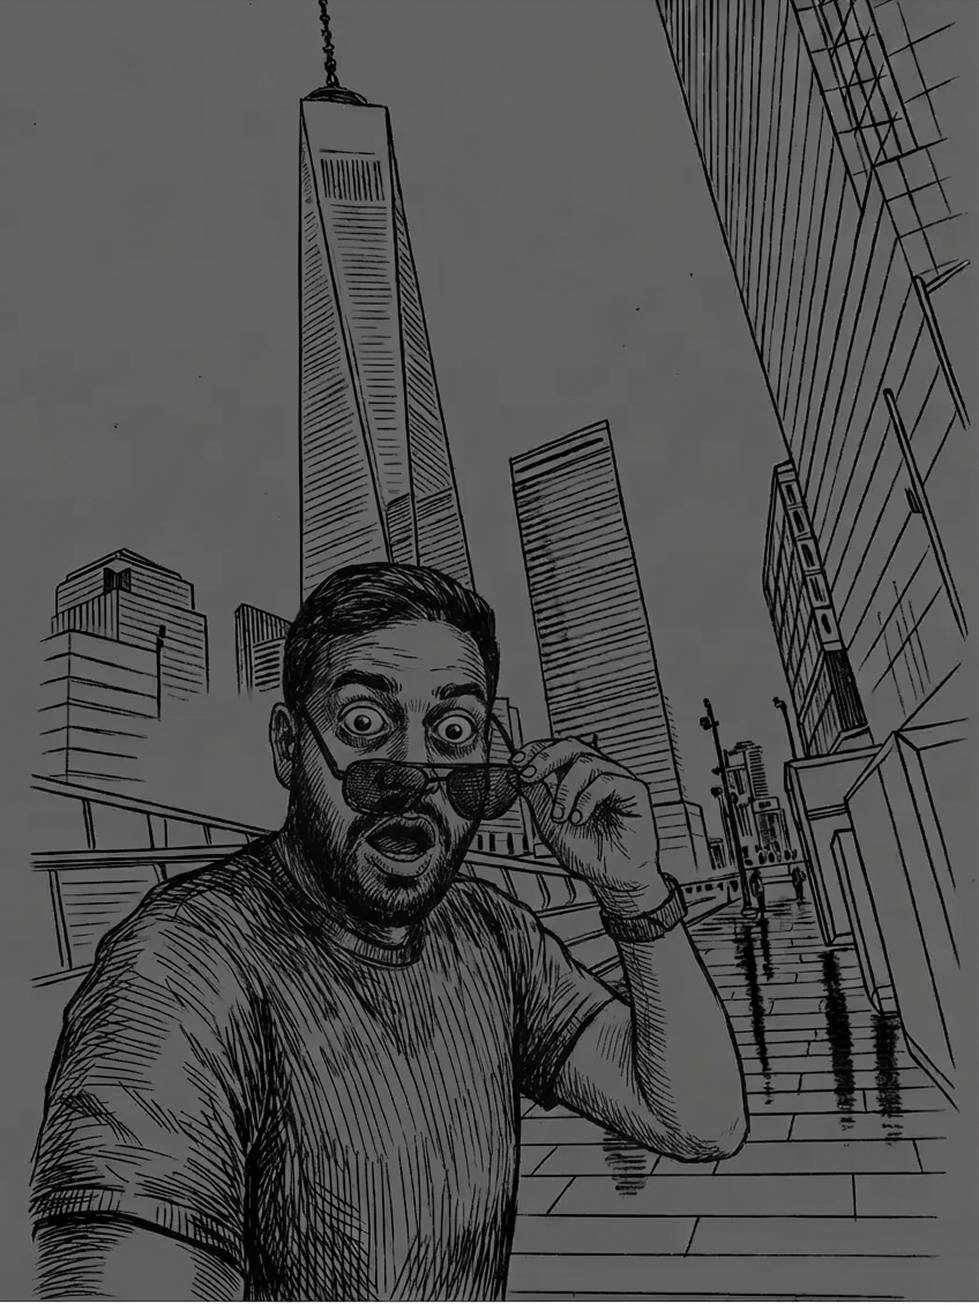
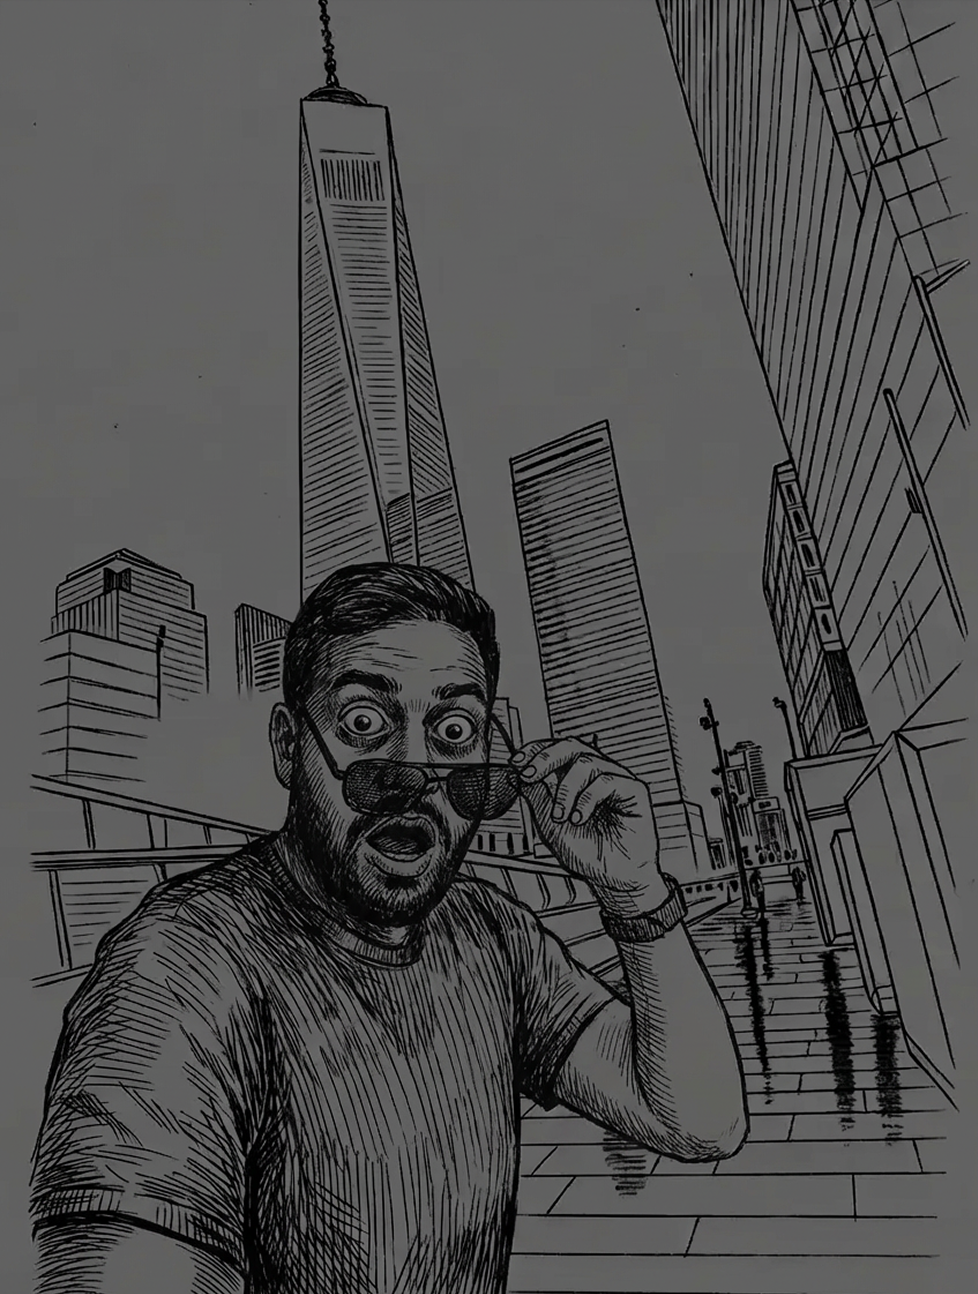
Fix portrait image display and optimize images
- Add display: block to portrait to remove inline spacing gap
- Update me.png and me-shocked.png (cropped bottom edge, reduced file size)
- Clean up portrait styling after image edit

Changed region(s): [[0.0, 0.0, 1.0, 1.0], [0.3067, 0.0618, 0.3681, 0.0927], [0.9816, 0.4637, 1.0, 0.4946]]

diff --git a/public/style.css b/public/style.css
@@ -1,1 +1,1 @@
-:root{--bg-primary: #0d1117;--bg-secondary: #161b22;--bg-tertiary: #21262d;--text-primary: #e6edf3;--text-secondary: #8b949e;--accent-green: #7ee787;--accent-cyan: #79c0ff;--accent-yellow: #ffa657;--border-color: #30363d}*{margin:0;padding:0;box-sizing:border-box}html{font-size:16px;scroll-behavior:smooth}body{font-family:"JetBrains Mono","Fira Code","Cascadia Code","Consolas","Monaco",monospace;background-color:var(--bg-primary);color:var(--text-primary);line-height:1.6;font-size:.95rem}a{color:var(--accent-green);text-decoration:none;transition:color .2s ease}a:hover{color:var(--accent-cyan);text-decoration:underline}.container{max-width:900px;margin:0 auto;padding:2rem 1.5rem}@keyframes fadeIn{from{opacity:0;transform:translateY(20px)}to{opacity:1;transform:translateY(0)}}header{background-color:#1a1a1a;border-bottom:2px solid var(--border-color);padding:0;margin-bottom:2rem;animation:fadeIn 1s ease-out}header .nav-container{max-width:1200px;margin:0 auto;padding:2rem;display:flex;flex-direction:row;align-items:center;justify-content:space-between;gap:3rem}header .site-brand{display:flex;flex-direction:column;align-items:flex-start;gap:1.5rem;flex-shrink:0}header .portrait{width:200px;height:300px;object-fit:cover;border-radius:12px;box-shadow:0 4px 8px rgba(0,0,0,.3);transition:transform .3s ease,box-shadow .3s ease}header .portrait:hover{transform:scale(1.05);box-shadow:0 6px 12px rgba(88,166,255,.3)}header .title-container{display:flex;align-items:center;gap:1rem;flex-wrap:wrap}header .terminal-text{color:var(--accent-green);font-size:1.5rem;font-weight:600;margin-right:.5rem}header .typewriter-text{color:var(--accent-cyan);font-size:1.5rem;font-weight:600;min-width:150px;display:inline-block}header .cursor{color:var(--text-primary);font-size:1.5rem;animation:blink 1s infinite}@keyframes blink{0%, 50%{opacity:1}51%, 100%{opacity:0}}header .shell-input{background:rgba(0,0,0,0);border:none;outline:none;color:var(--accent-cyan);font-family:"JetBrains Mono","Fira Code","Cascadia Code","Consolas","Monaco",monospace;font-size:1.5rem;font-weight:600;padding:0;min-width:300px;caret-color:var(--text-primary)}header .shell-input::selection{background-color:var(--accent-cyan);color:var(--bg-primary)}header nav{display:flex;flex-direction:column;gap:1rem;align-items:flex-end}header nav a{color:var(--text-primary);font-size:1.1rem;font-weight:600;letter-spacing:.5px}header nav a:hover{color:var(--accent-cyan)}header nav a::before{content:">";margin-right:.5rem;color:var(--accent-green)}.shell-output{margin-top:1rem;padding:0 2rem;color:var(--text-primary);font-size:.9rem;max-height:300px;overflow-y:auto}.shell-output .output-line{margin-bottom:.25rem}.shell-output .error{color:#ff6b6b}.shell-output .success{color:var(--accent-green)}.autocomplete{position:absolute;margin-top:.5rem;background-color:var(--bg-secondary);border:1px solid var(--border-color);border-radius:4px;max-height:150px;overflow-y:auto;display:none;z-index:100}.autocomplete.show{display:block}.autocomplete .autocomplete-item{padding:.5rem .75rem;cursor:pointer;color:var(--text-secondary);font-size:.9rem;white-space:nowrap}.autocomplete .autocomplete-item:hover,.autocomplete .autocomplete-item.selected{background-color:var(--bg-tertiary);color:var(--accent-cyan)}.autocomplete .autocomplete-item .command{color:var(--accent-green);font-weight:600}.autocomplete .autocomplete-item .description{color:var(--text-secondary);font-size:.85rem;margin-left:1rem}main{min-height:60vh}.post-list{list-style:none}.post-list .post-item{margin-bottom:2rem;padding:1.5rem;background-color:var(--bg-secondary);border:1px solid var(--border-color);border-left:3px solid var(--accent-green)}.post-list .post-item:hover{border-left-color:var(--accent-cyan);background-color:var(--bg-tertiary)}.post-list .post-item .post-meta{color:var(--text-secondary);font-size:.85rem;margin-bottom:.5rem}.post-list .post-item .post-meta::before{content:"[";color:var(--accent-green)}.post-list .post-item .post-meta::after{content:"]";color:var(--accent-green)}.post-list .post-item .post-title{font-size:1.3rem;margin-bottom:.5rem}.post-list .post-item .post-title a{color:var(--text-primary);font-weight:600}.post-list .post-item .post-title a::before{content:"> ";color:var(--accent-cyan)}.post-list .post-item .post-summary{color:var(--text-secondary);line-height:1.5}article .post-header{margin-bottom:2rem;padding-bottom:1rem;border-bottom:1px solid var(--border-color)}article .post-header h1{font-size:2rem;color:var(--accent-cyan);margin-bottom:.5rem}article .post-header h1::before{content:"# ";color:var(--accent-green)}article .post-header .post-meta{color:var(--text-secondary);font-size:.9rem}article .post-content h2{color:var(--accent-cyan);margin-top:2rem;margin-bottom:1rem;font-size:1.5rem}article .post-content h2::before{content:"## ";color:var(--accent-green)}article .post-content h3{color:var(--accent-green);margin-top:1.5rem;margin-bottom:.75rem;font-size:1.2rem}article .post-content h3::before{content:"### ";color:var(--text-secondary)}article .post-content p{margin-bottom:1rem;line-height:1.7}article .post-content code{background-color:var(--bg-tertiary);padding:.2rem .4rem;border-radius:3px;font-size:.9em;color:var(--accent-yellow)}article .post-content pre{background-color:var(--bg-secondary);border:1px solid var(--border-color);border-left:3px solid var(--accent-green);padding:1rem;overflow-x:auto;margin:1.5rem 0}article .post-content pre code{background:none;padding:0;color:var(--text-primary)}article .post-content blockquote{border-left:3px solid var(--accent-cyan);padding-left:1rem;margin:1.5rem 0;color:var(--text-secondary);font-style:italic}article .post-content ul,article .post-content ol{margin-left:2rem;margin-bottom:1rem}article .post-content ul li,article .post-content ol li{margin-bottom:.5rem}article .post-content ul li::marker,article .post-content ol li::marker{color:var(--accent-green)}.tags{display:flex;flex-wrap:wrap;gap:.5rem;margin-top:1rem}.tags .tag{background-color:var(--bg-tertiary);border:1px solid var(--border-color);padding:.3rem .7rem;border-radius:3px;font-size:.85rem;color:var(--text-secondary)}.tags .tag::before{content:"#";color:var(--accent-green);margin-right:.2rem}.tags .tag:hover{background-color:var(--bg-secondary);border-color:var(--accent-green);color:var(--accent-cyan)}footer{margin-top:4rem;padding:2rem 0;border-top:2px solid var(--border-color);background-color:var(--bg-secondary);text-align:center;color:var(--text-secondary);font-size:.9rem}footer::before{content:"---";display:block;color:var(--accent-green);margin-bottom:1rem}.pagination{display:flex;justify-content:center;gap:1rem;margin-top:3rem}.pagination a,.pagination span{padding:.5rem 1rem;background-color:var(--bg-secondary);border:1px solid var(--border-color)}.pagination a::before,.pagination span::before{content:"[";color:var(--accent-green)}.pagination a::after,.pagination span::after{content:"]";color:var(--accent-green)}.pagination a:hover,.pagination span:hover{background-color:var(--bg-tertiary);border-color:var(--accent-cyan)}.pagination .active{border-color:var(--accent-cyan);color:var(--accent-cyan)}.search-container{margin-bottom:2rem}.search-container input{width:100%;padding:.75rem;background-color:var(--bg-secondary);border:1px solid var(--border-color);border-left:3px solid var(--accent-green);color:var(--text-primary);font-family:"JetBrains Mono","Fira Code","Cascadia Code","Consolas","Monaco",monospace;font-size:.95rem}.search-container input::placeholder{color:var(--text-secondary)}.search-container input:focus{outline:none;border-left-color:var(--accent-cyan);background-color:var(--bg-tertiary)}@media (max-width: 1024px){header .nav-container{flex-direction:column;align-items:center;padding:2rem 1rem}header .site-brand{align-items:center}header .title-container{justify-content:center}header .portrait{height:400px}header nav{align-items:center;gap:.75rem}.container{padding:1rem}article .post-header h1{font-size:1.5rem}}@media (max-width: 600px){header .title-container{font-size:.9rem}header .handwriting-svg svg{height:40px}header .typewriter-prompt{font-size:1.5rem}}
+:root{--bg-primary: #0d1117;--bg-secondary: #161b22;--bg-tertiary: #21262d;--text-primary: #e6edf3;--text-secondary: #8b949e;--accent-green: #7ee787;--accent-cyan: #79c0ff;--accent-yellow: #ffa657;--border-color: #30363d}*{margin:0;padding:0;box-sizing:border-box}html{font-size:16px;scroll-behavior:smooth}body{font-family:"JetBrains Mono","Fira Code","Cascadia Code","Consolas","Monaco",monospace;background-color:var(--bg-primary);color:var(--text-primary);line-height:1.6;font-size:.95rem}a{color:var(--accent-green);text-decoration:none;transition:color .2s ease}a:hover{color:var(--accent-cyan);text-decoration:underline}.container{max-width:900px;margin:0 auto;padding:2rem 1.5rem}@keyframes fadeIn{from{opacity:0;transform:translateY(20px)}to{opacity:1;transform:translateY(0)}}header{background-color:#1a1a1a;border-bottom:2px solid var(--border-color);padding:0;margin-bottom:2rem;animation:fadeIn 1s ease-out}header .nav-container{max-width:1200px;margin:0 auto;padding:2rem;display:flex;flex-direction:row;align-items:center;justify-content:space-between;gap:3rem}header .site-brand{display:flex;flex-direction:column;align-items:flex-start;gap:1.5rem;flex-shrink:0}header .portrait{display:block;width:200px;height:300px;object-fit:cover;border-radius:12px;box-shadow:0 4px 8px rgba(0,0,0,.3);transition:transform .3s ease,box-shadow .3s ease}header .portrait:hover{transform:scale(1.05);box-shadow:0 6px 12px rgba(88,166,255,.3)}header .title-container{display:flex;align-items:center;gap:1rem;flex-wrap:wrap}header .terminal-text{color:var(--accent-green);font-size:1.5rem;font-weight:600;margin-right:.5rem}header .typewriter-text{color:var(--accent-cyan);font-size:1.5rem;font-weight:600;min-width:150px;display:inline-block}header .cursor{color:var(--text-primary);font-size:1.5rem;animation:blink 1s infinite}@keyframes blink{0%, 50%{opacity:1}51%, 100%{opacity:0}}header .shell-input{background:rgba(0,0,0,0);border:none;outline:none;color:var(--accent-cyan);font-family:"JetBrains Mono","Fira Code","Cascadia Code","Consolas","Monaco",monospace;font-size:1.5rem;font-weight:600;padding:0;min-width:300px;caret-color:var(--text-primary)}header .shell-input::selection{background-color:var(--accent-cyan);color:var(--bg-primary)}header nav{display:flex;flex-direction:column;gap:1rem;align-items:flex-end}header nav a{color:var(--text-primary);font-size:1.1rem;font-weight:600;letter-spacing:.5px}header nav a:hover{color:var(--accent-cyan)}header nav a::before{content:">";margin-right:.5rem;color:var(--accent-green)}.shell-output{margin-top:1rem;padding:0 2rem;color:var(--text-primary);font-size:.9rem;max-height:300px;overflow-y:auto}.shell-output .output-line{margin-bottom:.25rem}.shell-output .error{color:#ff6b6b}.shell-output .success{color:var(--accent-green)}.autocomplete{position:absolute;margin-top:.5rem;background-color:var(--bg-secondary);border:1px solid var(--border-color);border-radius:4px;max-height:150px;overflow-y:auto;display:none;z-index:100}.autocomplete.show{display:block}.autocomplete .autocomplete-item{padding:.5rem .75rem;cursor:pointer;color:var(--text-secondary);font-size:.9rem;white-space:nowrap}.autocomplete .autocomplete-item:hover,.autocomplete .autocomplete-item.selected{background-color:var(--bg-tertiary);color:var(--accent-cyan)}.autocomplete .autocomplete-item .command{color:var(--accent-green);font-weight:600}.autocomplete .autocomplete-item .description{color:var(--text-secondary);font-size:.85rem;margin-left:1rem}main{min-height:60vh}.post-list{list-style:none}.post-list .post-item{margin-bottom:2rem;padding:1.5rem;background-color:var(--bg-secondary);border:1px solid var(--border-color);border-left:3px solid var(--accent-green)}.post-list .post-item:hover{border-left-color:var(--accent-cyan);background-color:var(--bg-tertiary)}.post-list .post-item .post-meta{color:var(--text-secondary);font-size:.85rem;margin-bottom:.5rem}.post-list .post-item .post-meta::before{content:"[";color:var(--accent-green)}.post-list .post-item .post-meta::after{content:"]";color:var(--accent-green)}.post-list .post-item .post-title{font-size:1.3rem;margin-bottom:.5rem}.post-list .post-item .post-title a{color:var(--text-primary);font-weight:600}.post-list .post-item .post-title a::before{content:"> ";color:var(--accent-cyan)}.post-list .post-item .post-summary{color:var(--text-secondary);line-height:1.5}article .post-header{margin-bottom:2rem;padding-bottom:1rem;border-bottom:1px solid var(--border-color)}article .post-header h1{font-size:2rem;color:var(--accent-cyan);margin-bottom:.5rem}article .post-header h1::before{content:"# ";color:var(--accent-green)}article .post-header .post-meta{color:var(--text-secondary);font-size:.9rem}article .post-content h2{color:var(--accent-cyan);margin-top:2rem;margin-bottom:1rem;font-size:1.5rem}article .post-content h2::before{content:"## ";color:var(--accent-green)}article .post-content h3{color:var(--accent-green);margin-top:1.5rem;margin-bottom:.75rem;font-size:1.2rem}article .post-content h3::before{content:"### ";color:var(--text-secondary)}article .post-content p{margin-bottom:1rem;line-height:1.7}article .post-content code{background-color:var(--bg-tertiary);padding:.2rem .4rem;border-radius:3px;font-size:.9em;color:var(--accent-yellow)}article .post-content pre{background-color:var(--bg-secondary);border:1px solid var(--border-color);border-left:3px solid var(--accent-green);padding:1rem;overflow-x:auto;margin:1.5rem 0}article .post-content pre code{background:none;padding:0;color:var(--text-primary)}article .post-content blockquote{border-left:3px solid var(--accent-cyan);padding-left:1rem;margin:1.5rem 0;color:var(--text-secondary);font-style:italic}article .post-content ul,article .post-content ol{margin-left:2rem;margin-bottom:1rem}article .post-content ul li,article .post-content ol li{margin-bottom:.5rem}article .post-content ul li::marker,article .post-content ol li::marker{color:var(--accent-green)}.tags{display:flex;flex-wrap:wrap;gap:.5rem;margin-top:1rem}.tags .tag{background-color:var(--bg-tertiary);border:1px solid var(--border-color);padding:.3rem .7rem;border-radius:3px;font-size:.85rem;color:var(--text-secondary)}.tags .tag::before{content:"#";color:var(--accent-green);margin-right:.2rem}.tags .tag:hover{background-color:var(--bg-secondary);border-color:var(--accent-green);color:var(--accent-cyan)}footer{margin-top:4rem;padding:2rem 0;border-top:2px solid var(--border-color);background-color:var(--bg-secondary);text-align:center;color:var(--text-secondary);font-size:.9rem}footer::before{content:"---";display:block;color:var(--accent-green);margin-bottom:1rem}.pagination{display:flex;justify-content:center;gap:1rem;margin-top:3rem}.pagination a,.pagination span{padding:.5rem 1rem;background-color:var(--bg-secondary);border:1px solid var(--border-color)}.pagination a::before,.pagination span::before{content:"[";color:var(--accent-green)}.pagination a::after,.pagination span::after{content:"]";color:var(--accent-green)}.pagination a:hover,.pagination span:hover{background-color:var(--bg-tertiary);border-color:var(--accent-cyan)}.pagination .active{border-color:var(--accent-cyan);color:var(--accent-cyan)}.search-container{margin-bottom:2rem}.search-container input{width:100%;padding:.75rem;background-color:var(--bg-secondary);border:1px solid var(--border-color);border-left:3px solid var(--accent-green);color:var(--text-primary);font-family:"JetBrains Mono","Fira Code","Cascadia Code","Consolas","Monaco",monospace;font-size:.95rem}.search-container input::placeholder{color:var(--text-secondary)}.search-container input:focus{outline:none;border-left-color:var(--accent-cyan);background-color:var(--bg-tertiary)}@media (max-width: 1024px){header .nav-container{flex-direction:column;align-items:center;padding:2rem 1rem}header .site-brand{align-items:center}header .title-container{justify-content:center}header .portrait{height:400px}header nav{align-items:center;gap:.75rem}.container{padding:1rem}article .post-header h1{font-size:1.5rem}}@media (max-width: 600px){header .title-container{font-size:.9rem}header .handwriting-svg svg{height:40px}header .typewriter-prompt{font-size:1.5rem}}

diff --git a/themes/terminal/sass/style.scss b/themes/terminal/sass/style.scss
@@ -92,6 +92,7 @@ header {
   }
 
   .portrait {
+    display: block;
     width: 200px;
     height: 300px;
     object-fit: cover;
